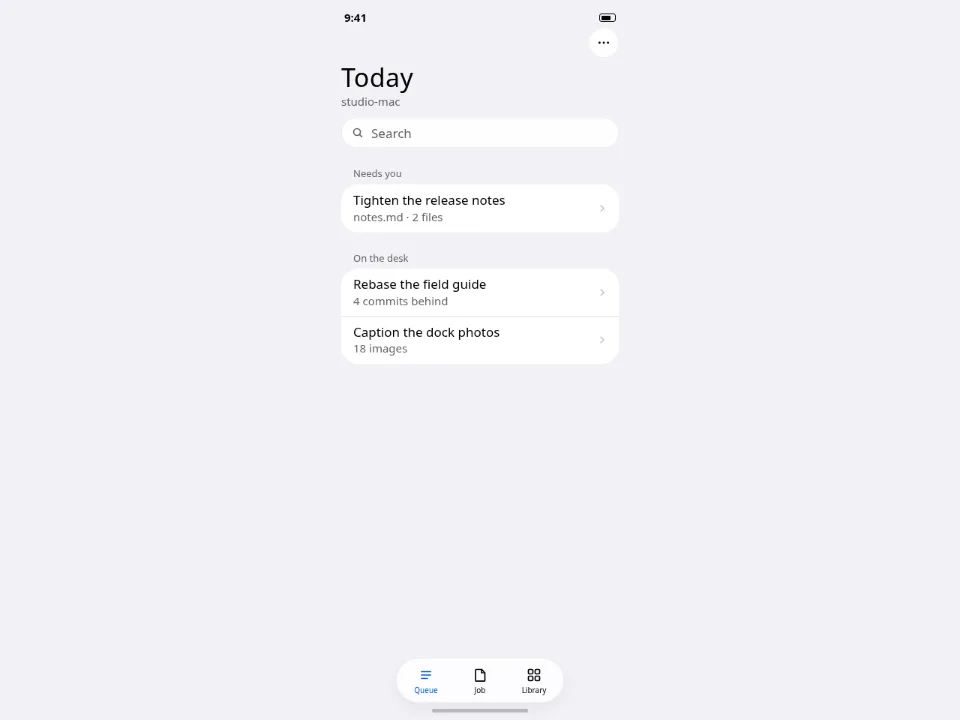
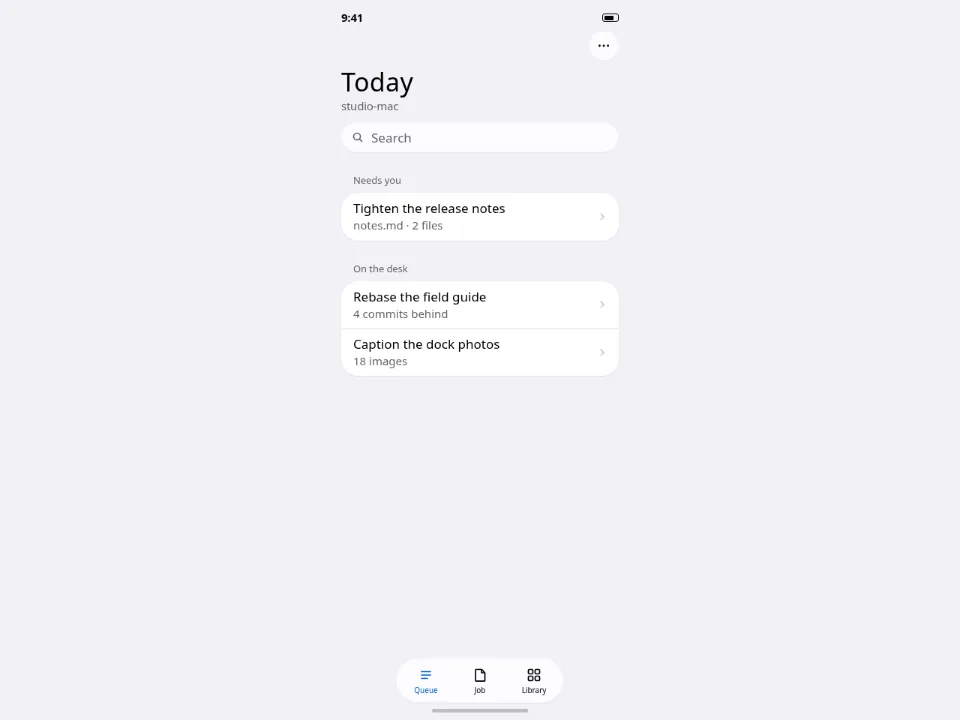
Align the job screen and give the groups a light edge.
The segmented control now shares the card's width, with a gap under it. Section labels stay inset. Cards keep a hairline and a short shadow instead of another glass layer.

diff --git a/templates/ios-liquid-glass/demo.html b/templates/ios-liquid-glass/demo.html
@@ -36,21 +36,25 @@
 	}
 	.scroll { flex: 1; padding-bottom: 120px; }
 	.status, .bar { display: flex; align-items: center; justify-content: space-between; }
-	.status { min-height: 22px; padding: 14px 20px 0; font-size: 15px; font-weight: 600; }
+	.status { min-height: 22px; padding: 14px 16px 0; font-size: 15px; font-weight: 600; letter-spacing: -0.24px; }
 	.battery { width: 22px; height: 11px; border: 1.5px solid currentColor; border-radius: 3px; position: relative; }
 	.battery::before { content: ""; position: absolute; inset: 1.5px 6px 1.5px 1.5px; background: currentColor; border-radius: 1px; }
-	.bar { min-height: 44px; padding: 4px 16px 0; }
+	.bar { min-height: 44px; padding: 8px 16px 0; }
 	.bar.trail { justify-content: flex-end; }
-	h1 { padding: 6px 16px 0; font-size: 34px; font-weight: 400; letter-spacing: 0.01em; line-height: 1.2; }
-	.sub { padding: 2px 16px 0; color: var(--color-muted); font-size: 15px; }
-	.section { margin: 26px 32px 6px; font-size: 13px; font-weight: 400; color: var(--color-muted); }
-	.group { margin: 0 16px; background: var(--color-surface-raised); border-radius: 22px; overflow: hidden; }
+	h1 { padding: 8px 16px 0; font-size: 34px; font-weight: 400; letter-spacing: 0.37px; line-height: 41px; }
+	.sub { padding: 1px 16px 0; color: var(--color-muted); font-size: 15px; line-height: 20px; letter-spacing: -0.24px; }
+	.section { margin: 28px 32px 8px; font-size: 13px; font-weight: 400; line-height: 18px; letter-spacing: -0.08px; color: var(--color-muted); }
+	.group {
+		margin: 0 16px; background: var(--color-surface-raised); border-radius: 22px; overflow: hidden;
+		box-shadow: 0 0 0 0.5px rgb(0 0 0 / 0.05), 0 1px 2px rgb(0 0 0 / 0.04);
+	}
 	.row {
 		display: flex; align-items: center; justify-content: space-between; gap: 12px;
 		width: 100%; min-height: 60px; padding: 10px 16px;
 		border: 0; background: transparent; text-align: left;
 	}
 	.row + .row { box-shadow: inset 0 0.5px 0 var(--color-border); }
+	.row:active { background: rgb(120 120 128 / 0.16); }
 	.row span { display: grid; gap: 2px; min-width: 0; }
 	.row strong { font-size: 17px; font-weight: 400; }
 	.row em { font-style: normal; font-size: 15px; color: var(--color-muted); }
@@ -58,19 +62,21 @@
 	.search {
 		display: flex; align-items: center; gap: 8px;
 		height: 40px; margin: 12px 16px 0; padding: 0 14px; border-radius: 20px;
-		background: rgb(255 255 255 / 0.86);
-		box-shadow: inset 0 0 0 0.5px rgb(0 0 0 / 0.08);
-		-webkit-backdrop-filter: blur(8px) saturate(1.4);
-		backdrop-filter: blur(8px) saturate(1.4);
+		background: rgb(255 255 255 / 0.72);
+		box-shadow: inset 0 0.5px 0 rgb(255 255 255 / 0.7), inset 0 0 0 0.5px rgb(0 0 0 / 0.06), 0 1px 2px rgb(0 0 0 / 0.04);
+		-webkit-backdrop-filter: blur(12px) saturate(1.4);
+		backdrop-filter: blur(12px) saturate(1.4);
 	}
 	.search input { flex: 1; min-width: 0; height: 100%; border: 0; background: transparent; outline: none; font-size: 17px; }
 	.search input::placeholder { color: var(--color-muted); }
 	.mag { width: 16px; height: 16px; color: var(--color-muted); flex: none; }
 	.more {
 		width: 40px; height: 40px; border: 0; border-radius: 20px;
-		background: rgb(255 255 255 / 0.86);
-		box-shadow: inset 0 0 0 0.5px rgb(0 0 0 / 0.08);
+		background: rgb(255 255 255 / 0.72);
+		box-shadow: inset 0 0.5px 0 rgb(255 255 255 / 0.7), inset 0 0 0 0.5px rgb(0 0 0 / 0.06), 0 1px 2px rgb(0 0 0 / 0.04);
 		display: grid; place-items: center;
+		-webkit-backdrop-filter: blur(12px) saturate(1.4);
+		backdrop-filter: blur(12px) saturate(1.4);
 	}
 	.dock {
 		position: sticky; bottom: 0;
@@ -79,10 +85,10 @@
 	}
 	.tabs {
 		display: flex; padding: 4px; border-radius: 30px;
-		background: rgb(255 255 255 / 0.78);
-		box-shadow: inset 0 0 0 0.5px rgb(0 0 0 / 0.08), 0 8px 24px rgb(0 0 0 / 0.06);
-		-webkit-backdrop-filter: blur(12px) saturate(1.4);
-		backdrop-filter: blur(12px) saturate(1.4);
+		background: rgb(255 255 255 / 0.72);
+		box-shadow: inset 0 0.5px 0 rgb(255 255 255 / 0.65), inset 0 0 0 0.5px rgb(0 0 0 / 0.06), 0 1px 2px rgb(0 0 0 / 0.05);
+		-webkit-backdrop-filter: blur(16px) saturate(1.5);
+		backdrop-filter: blur(16px) saturate(1.5);
 	}
 	.tab {
 		width: 72px; min-height: 52px; border: 0; background: transparent; border-radius: 26px;
@@ -98,8 +104,13 @@
 	.lede { margin-top: 8px; color: var(--color-muted); font-size: 15px; max-width: 62ch; }
 	.label { font-size: 13px; color: var(--color-primary); margin-bottom: 6px; }
 	.detail { width: min(402px, 100%); margin-top: 16px; background: var(--color-surface); border-radius: 28px; padding-bottom: 20px; }
-	.seg { display: inline-flex; height: 32px; margin: 16px; border-radius: 16px; background: rgb(118 118 128 / 0.12); }
-	.seg button { width: 84px; border: 0; background: transparent; font-size: 13px; border-radius: 16px; }
+	.detail h1 { font-size: 28px; line-height: 34px; letter-spacing: 0.36px; overflow-wrap: break-word; }
+	.seg {
+		display: flex; height: 32px; width: calc(100% - 32px); margin: 16px 16px 12px;
+		border-radius: 16px; background: rgb(118 118 128 / 0.12);
+		box-shadow: inset 0 0 0 0.5px rgb(0 0 0 / 0.04);
+	}
+	.seg button { flex: 1; width: auto; border: 0; background: transparent; font-size: 13px; border-radius: 16px; }
 	.seg button[aria-checked="true"] { background: #fff; font-weight: 600; }
 	.switch { width: 60px; height: 44px; border: 0; background: transparent; position: relative; padding: 0; flex: none; }
 	.switch i { position: absolute; left: 0; right: 0; top: 9px; height: 25px; border-radius: 999px; background: rgb(120 120 128 / 0.32); }
@@ -107,7 +118,7 @@
 	.switch[aria-checked="true"] i { background: var(--color-accent); }
 	.switch[aria-checked="true"] b { left: 30px; }
 	.grow { min-height: 60px; }
-	.btn { height: 40px; padding: 0 16px; border: 0; border-radius: 20px; background: rgb(255 255 255 / 0.9); box-shadow: inset 0 0 0 0.5px rgb(0 0 0 / 0.08); font-size: 15px; }
+	.btn { height: 40px; padding: 0 16px; border: 0; border-radius: 20px; background: rgb(255 255 255 / 0.86); box-shadow: inset 0 0.5px 0 rgb(255 255 255 / 0.8), inset 0 0 0 0.5px rgb(0 0 0 / 0.06), 0 1px 2px rgb(0 0 0 / 0.04); font-size: 15px; }
 	.btn.filled { background: var(--color-primary); color: var(--color-primary-foreground); box-shadow: none; }
 	.actions { display: flex; gap: 8px; margin: 16px; }
 	.actions .btn { flex: 1; }
@@ -121,7 +132,6 @@
 	.rules b { display: block; color: var(--color-surface-foreground); font-weight: 600; font-size: 15px; }
 	.note { margin-top: 28px; font-size: 13px; color: var(--color-muted); }
 	@media (max-width: 540px) {
-		.seg button { width: 72px; }
 		.wrap { padding-left: 16px; padding-right: 16px; }
 	}
 	@media (prefers-reduced-transparency: reduce) {
@@ -220,7 +230,7 @@
 					<button type="button" role="radio" aria-checked="false">Diff</button>
 					<button type="button" role="radio" aria-checked="false">Notes</button>
 				</div>
-				<div class="group" style="padding:14px 16px"><p>Shorten the opening, keep the install steps, and drop the changelog slogan.</p></div>
+				<div class="group" style="padding:14px 16px;margin-top:0"><p>Shorten the opening, keep the install steps, and drop the changelog slogan.</p></div>
 				<h2 class="section">Permissions</h2>
 				<div class="group">
 					<div class="row grow"><span style="display:block">Shell on this Mac</span><button class="switch" type="button" role="switch" aria-checked="true" aria-label="Shell on this Mac"><i></i><b></b></button></div>

diff --git a/templates/ios-liquid-glass/integration/src/app.css b/templates/ios-liquid-glass/integration/src/app.css
@@ -48,14 +48,27 @@ h1, h2, p { margin: 0; }
 	width: min(402px, 100%);
 	height: 100dvh;
 	margin: 0 auto;
-	background: var(--color-surface);
+	background: linear-gradient(180deg, #f7f7fa 0, var(--color-surface) 240px);
+}
+.app[data-theme="dark"] .column {
+	background: linear-gradient(180deg, #141416 0, var(--color-surface) 240px);
 }
 .scroll {
 	position: absolute;
 	inset: 0;
 	overflow: auto;
 	padding-bottom: 128px;
-	background: var(--color-surface);
+	background: transparent;
+}
+.dock::before {
+	content: "";
+	position: absolute;
+	left: 0;
+	right: 0;
+	bottom: 100%;
+	height: 28px;
+	background: linear-gradient(to bottom, transparent, color-mix(in srgb, var(--color-surface) 88%, transparent));
+	pointer-events: none;
 }
 .dock {
 	position: absolute;
@@ -80,15 +93,20 @@ h1, h2, p { margin: 0; }
 }
 .app[data-theme="dark"] .home { background: rgb(255 255 255 / 0.32); }
 
-.screen { padding-bottom: 8px; }
+.screen {
+	--gutter: 16px;
+	--text: 32px;
+	padding-bottom: 8px;
+}
 .status {
 	display: flex;
 	align-items: center;
 	justify-content: space-between;
 	min-height: 22px;
-	padding: max(14px, env(safe-area-inset-top)) 20px 0;
+	padding: max(14px, env(safe-area-inset-top)) var(--gutter) 0;
 	font-size: 15px;
 	font-weight: 600;
+	letter-spacing: -0.24px;
 }
 .battery {
 	width: 22px;
@@ -109,33 +127,56 @@ h1, h2, p { margin: 0; }
 	align-items: center;
 	justify-content: flex-start;
 	min-height: 44px;
-	padding: 4px 16px 0;
+	padding: 8px var(--gutter) 0;
 }
 .bar.trail { justify-content: flex-end; }
 h1 {
-	padding: 6px 16px 0;
+	padding: 8px var(--gutter) 0;
 	font-size: 34px;
 	font-weight: 400;
-	line-height: 1.2;
-	letter-spacing: 0.01em;
+	line-height: 41px;
+	letter-spacing: 0.37px;
 }
-.title-1 { font-size: 28px; font-weight: 400; letter-spacing: 0.01em; line-height: 1.2; }
-.sub { padding: 2px 16px 0; color: var(--color-muted); font-size: 15px; font-weight: 400; }
-.sent { padding-top: 10px; }
+.title-1 {
+	font-size: 28px;
+	font-weight: 400;
+	line-height: 34px;
+	letter-spacing: 0.36px;
+	overflow-wrap: break-word;
+}
+.sub {
+	padding: 1px var(--gutter) 0;
+	color: var(--color-muted);
+	font-size: 15px;
+	font-weight: 400;
+	line-height: 20px;
+	letter-spacing: -0.24px;
+}
+.sent { padding-top: 12px; }
 .section {
-	margin: 26px 32px 6px;
+	margin: 28px var(--text) 8px;
 	font-size: 13px;
 	font-weight: 400;
+	line-height: 18px;
+	letter-spacing: -0.08px;
 	color: var(--color-muted);
 }
 .hint { margin: 0 32px 8px; font-size: 13px; color: var(--color-muted); }
 .empty { padding: 28px 16px; color: var(--color-muted); font-size: 17px; }
 
 .group {
-	margin: 0 16px;
+	margin: 0 var(--gutter);
 	background: var(--color-surface-raised);
 	border-radius: 22px;
 	overflow: hidden;
+	box-shadow:
+		0 0 0 0.5px rgb(0 0 0 / 0.05),
+		0 1px 2px rgb(0 0 0 / 0.04);
+}
+.app[data-theme="dark"] .group {
+	box-shadow:
+		0 0 0 0.5px rgb(255 255 255 / 0.08),
+		0 1px 2px rgb(0 0 0 / 0.45);
 }
 .group.pad, .group.prose { padding: 14px 16px; }
 .group.pad { overflow: visible; }
@@ -154,6 +195,7 @@ h1 {
 	cursor: pointer;
 }
 .row.static { cursor: default; }
+.row:not(.static):active { background: rgb(120 120 128 / 0.16); }
 .row + .row { box-shadow: inset 0 0.5px 0 var(--color-border); }
 .row.wrap {
 	flex-wrap: wrap;
@@ -171,10 +213,22 @@ h1 {
 .app[data-theme="dark"] .chevron { color: #636366; }
 .row strong { font-size: 17px; font-weight: 400; }
 
-.field { max-width: none !important; width: calc(100% - 32px); margin: 12px 16px 0; }
-.segment { display: flex; justify-content: center; margin: 16px 16px 0; }
-.slider-pad { padding: 0 8px 6px; }
-.actions { display: flex; gap: 8px; margin: 20px 16px 0; }
+.field {
+	max-width: none !important;
+	width: auto;
+	margin: 16px var(--gutter) 0;
+}
+.segment {
+	margin: 16px var(--gutter) 12px;
+	container-type: inline-size;
+}
+.segment .lg-segmented {
+	display: flex;
+	width: 100%;
+	--lg-tab-width: calc(100cqw / 3);
+}
+.slider-pad { padding: 0 16px 8px; }
+.actions { display: flex; gap: 8px; margin: 16px var(--gutter) 0; }
 .actions .lg-button { flex: 1; }
 .glass-sample { padding: 4px 16px 12px; }
 .float { display: inline-flex; align-items: center; height: 40px; padding: 0 16px; border-radius: 20px; font-size: 15px; }

diff --git a/templates/ios-liquid-glass/DESIGN.md b/templates/ios-liquid-glass/DESIGN.md
@@ -47,8 +47,8 @@ The shell uses the platform sans:
 
 Glisse controls set their own sizes and inherit the family (`font: inherit` plus an explicit size). Do not restyle those sizes.
 
-- Large title, 34px, weight 400, the page name. A pushed screen uses Title 1 at 28px, also weight 400.
-- Row title, 17px regular. The line under it, 15px in `muted`. Section name, 13px, title case, in `muted`.
+- Large title, 34px, weight 400, line-height 41px, tracking 0.37px. A pushed screen uses Title 1 at 28px, weight 400, line-height 34px, tracking 0.36px. Long titles wrap; do not shrink them.
+- Row title, 17px regular, tracking about -0.4px. The line under it, 15px in `muted`, line-height 20px. Section name, 13px, title case, line-height 18px, in `muted`.
 - Button label, 14px, from `.lg-button`. Segment labels, 13px. Icon-tab labels, 10px weight 500.
 - One filled button per view. Other buttons stay glass.
 
@@ -58,13 +58,18 @@ There is no display serif, no tight negative tracking, and no all-caps section l
 
 The product is one phone column, max 402px, centered on a wider viewport. The column does not grow into a dashboard, and the component gallery is a tab, not a side panel.
 
-- Groups inset 16px. Section names align with the row text, 32px from the screen edge. Rows are at least 60px, with a hairline inset from the leading edge of the next row.
-- Top safe area `max(14px, env(safe-area-inset-top))` above the time. The dock overlays the scroller. Content padding-bottom is 128px so the last row clears the bar and the home indicator.
-- The dock is centered. `TabBar` stays `inline-flex`. Content scrolls underneath it. The scroller carries `data-glisse-backdrop` and does not contain the bar.
-- Radius: library controls stay 20px pills. Groups are 22px.
+One gutter, `--gutter: 16px`, sets the outer edge of the time, the back button, the title, every group, the search field, the note field, the action row, and the job segmented control. Section names and the text inside a row start at 32px: the gutter plus the row's own 16px padding. That extra inset is the grouped-list header, and it stays.
+
+- The job `SegmentedControl` is the one control that spans the gutter. Its wrapper is a container, and that instance sets `--lg-tab-width: calc(100cqw / 3)`. A plain `100%` does not work: the tab's percentage resolves against the label row, not the control, and the segments collapse to the label width while the glass track stays wide. Leave the dock `TabBar` at the library width and centered. A 12px gap sits between the segments and the paragraph card. The previous 84px segments were centered in the column and had no margin under them, so they looked narrow and stuck to the card.
+- The note field and the two actions share the same 16px inset and a 16px gap above the actions. The slider track uses the row's 16px inset, the same line as the word beside it.
+- Top safe area `max(14px, env(safe-area-inset-top))` above the time. The dock overlays the scroller and stays centered, with `max(8px, env(safe-area-inset-bottom))` under the home indicator. Content padding-bottom is 128px.
+- `TabBar` stays `inline-flex`. Content scrolls underneath it. The scroller carries `data-glisse-backdrop` and does not contain the bar.
+- Radius: library controls stay 20px pills. Groups are 22px, the same family as the pills, not a second shape language.
+
+Groups are opaque `surface-raised`. A 0.5px edge and a 1px shadow are the only depth on a card. The page behind the title lightens by a few percent over the first 240px, and a 28px veil sits just above the dock so a row can pass under the glass without a hard cut. Pressing a disclosure row fills it with a 16% system gray. Do not add a second glass plate, a colored wash, or a scenic background to get that depth. Glisse already draws the rim and the frost on the real controls.
 - Touch: list rows are 60px. Glisse's button and input are 40px, the icon button is 40×40, the segmented control is 32px, and the switch graphic is about 60×25 with a 44px hit slop (`.lg-switch::before`). Do not shrink those. A disclosure row is a native button, not a `Glass` card.
 
-`Input` and `SearchField` default to `max-width: 360px`. On the phone, pass a class that sets `max-width: none; width: 100%`.
+`Input` and `SearchField` default to `max-width: 360px` and `width: 100%`. On the phone, the `field` class sets `max-width: none` and `width: auto` with the 16px gutter as margin, so the field's edges match the group. A `width: 100%` plus that margin would overflow.
 
 ## Components
 
